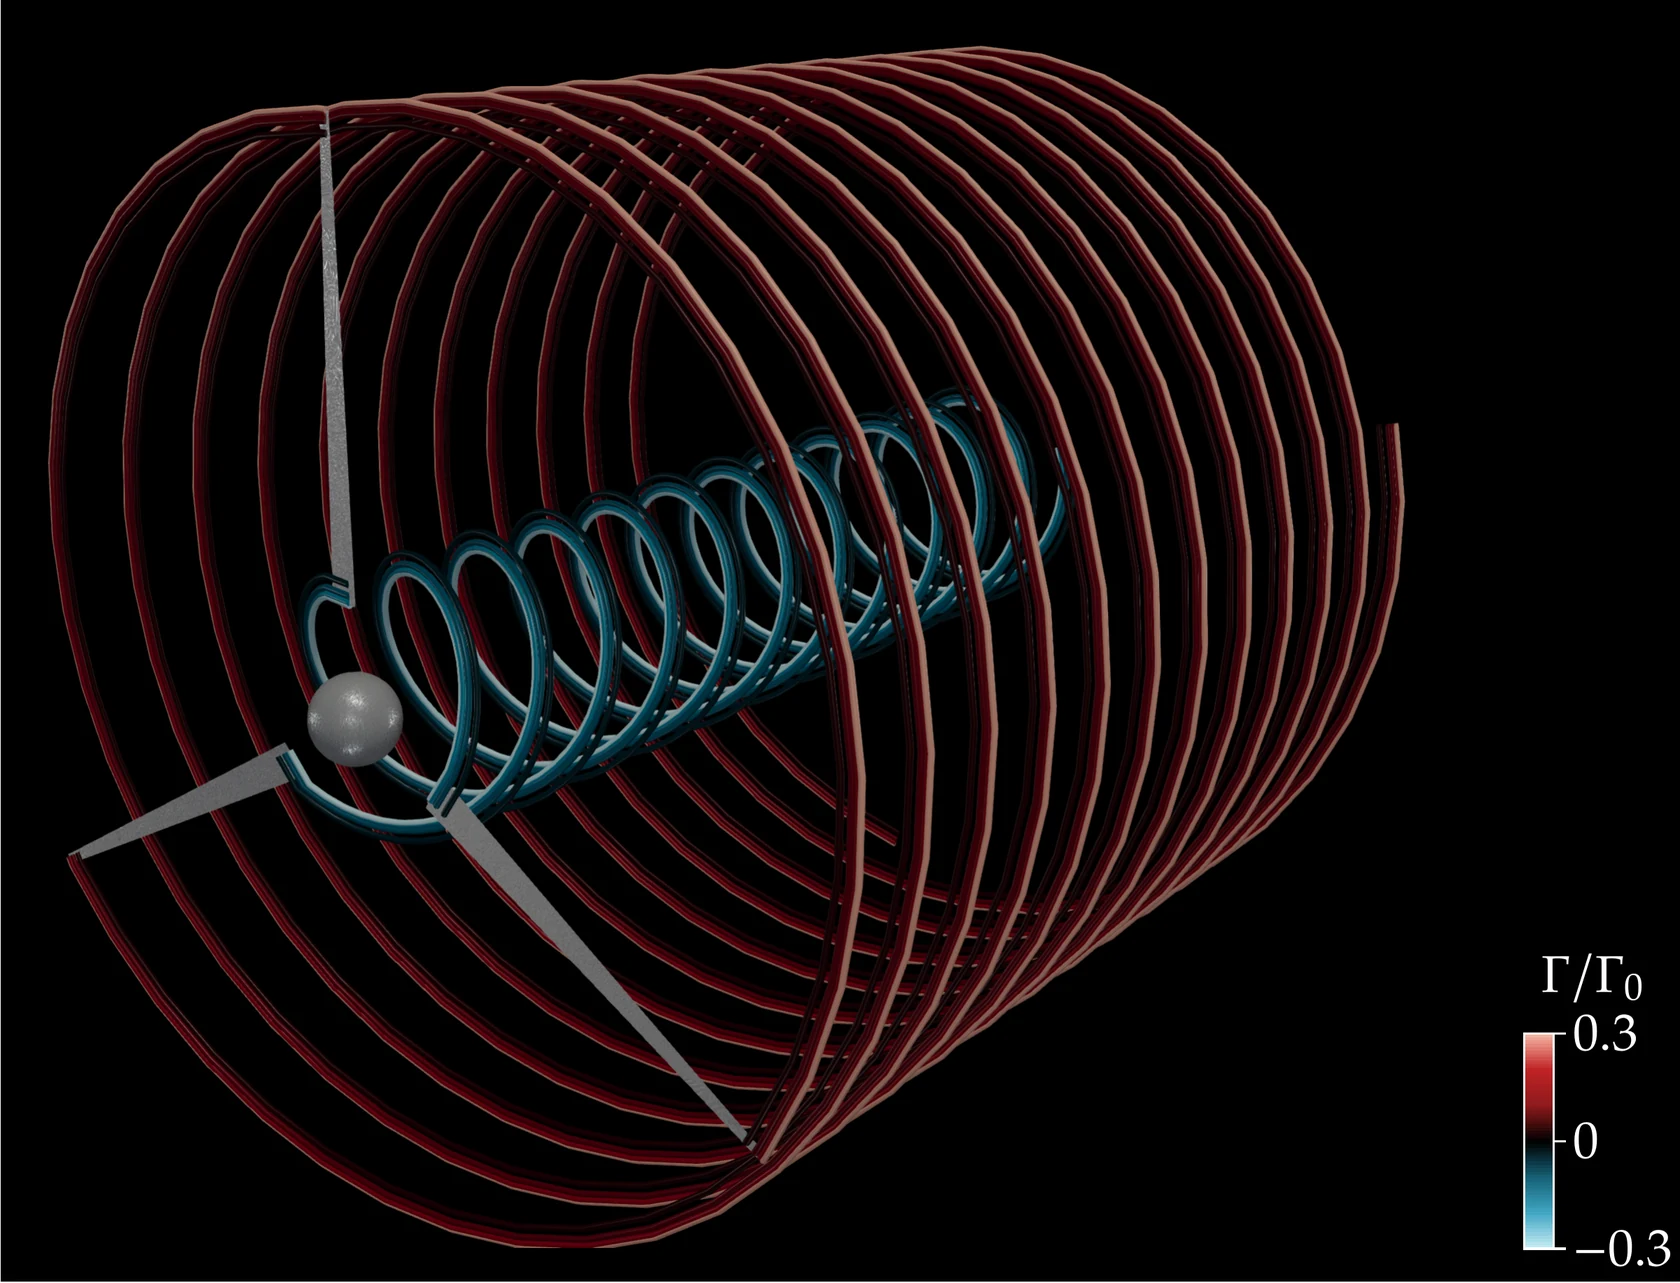
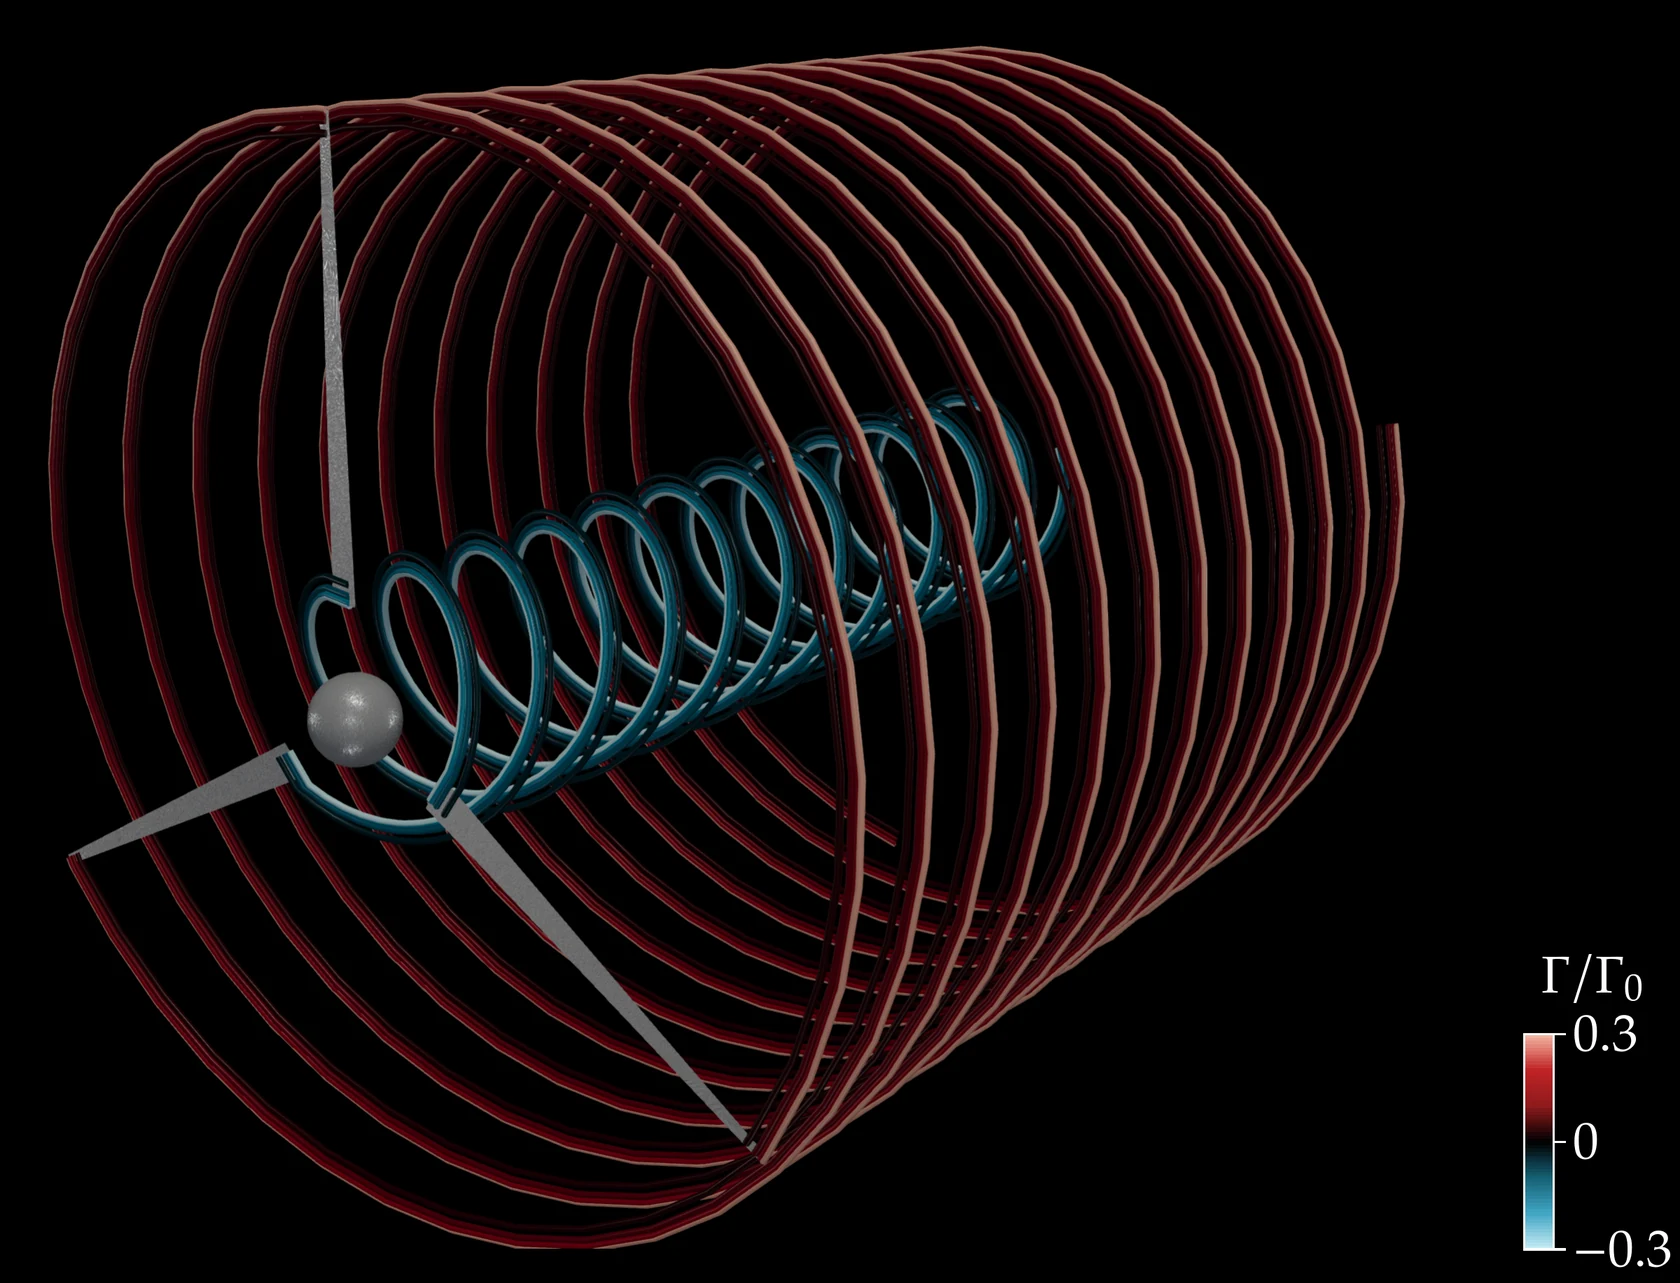
Remove the white edge line from the README figure
pdftoppm rounds the page up to whole pixels and paints the sliver past
the page white. overlay.py now gives the LaTeX page a black background
and keeps only pixels wholly inside the page; the figure is re-made.

Changed region(s): [[0.0, 0.9977, 1.0, 1.0], [0.3714, 0.9353, 0.4024, 0.9665]]

diff --git a/scripts/render/overlay.py b/scripts/render/overlay.py
@@ -123,6 +123,8 @@ def compose(panels, stem, bar=None, layout="column", check=True, notes=()):
 \usepackage[T1]{fontenc}
 \usepackage{newpxtext,newpxmath}
 \usepackage{graphicx}
+\usepackage{xcolor}
+\pagecolor{black}%% the rasteriser rounds the page up to whole pixels: keep that sliver black
 \begin{document}
 \begin{tikzpicture}[x=1mm,y=1mm,font=\fontsize{10.95}{13.1}\selectfont]
 \clip (0,0) rectangle (%s,%s);
@@ -137,7 +139,11 @@ def compose(panels, stem, bar=None, layout="column", check=True, notes=()):
             raise RuntimeError(run.stdout[-2000:])
         subprocess.run(["pdftoppm", "-png", "-r", f"{PX_PER_MM * 25.4:.3f}", "-singlefile", f"{name}.pdf", name],
                        cwd=work, check=True)
-        return Image.open(work / f"{name}.png").convert("RGB").resize((W_px, H_px), Image.LANCZOS)
+        img = Image.open(work / f"{name}.png").convert("RGB")
+        # pdftoppm rounds the page up to whole pixels and paints the part past the page white:
+        # keep only pixels that lie wholly inside the page
+        inside = (min(img.width, int(WIDTH_MM * PX_PER_MM)), min(img.height, int(H * PX_PER_MM)))
+        return img.crop((0, 0) + inside).resize((W_px, H_px), Image.LANCZOS)
 
     note_lines = []
     if notes:
